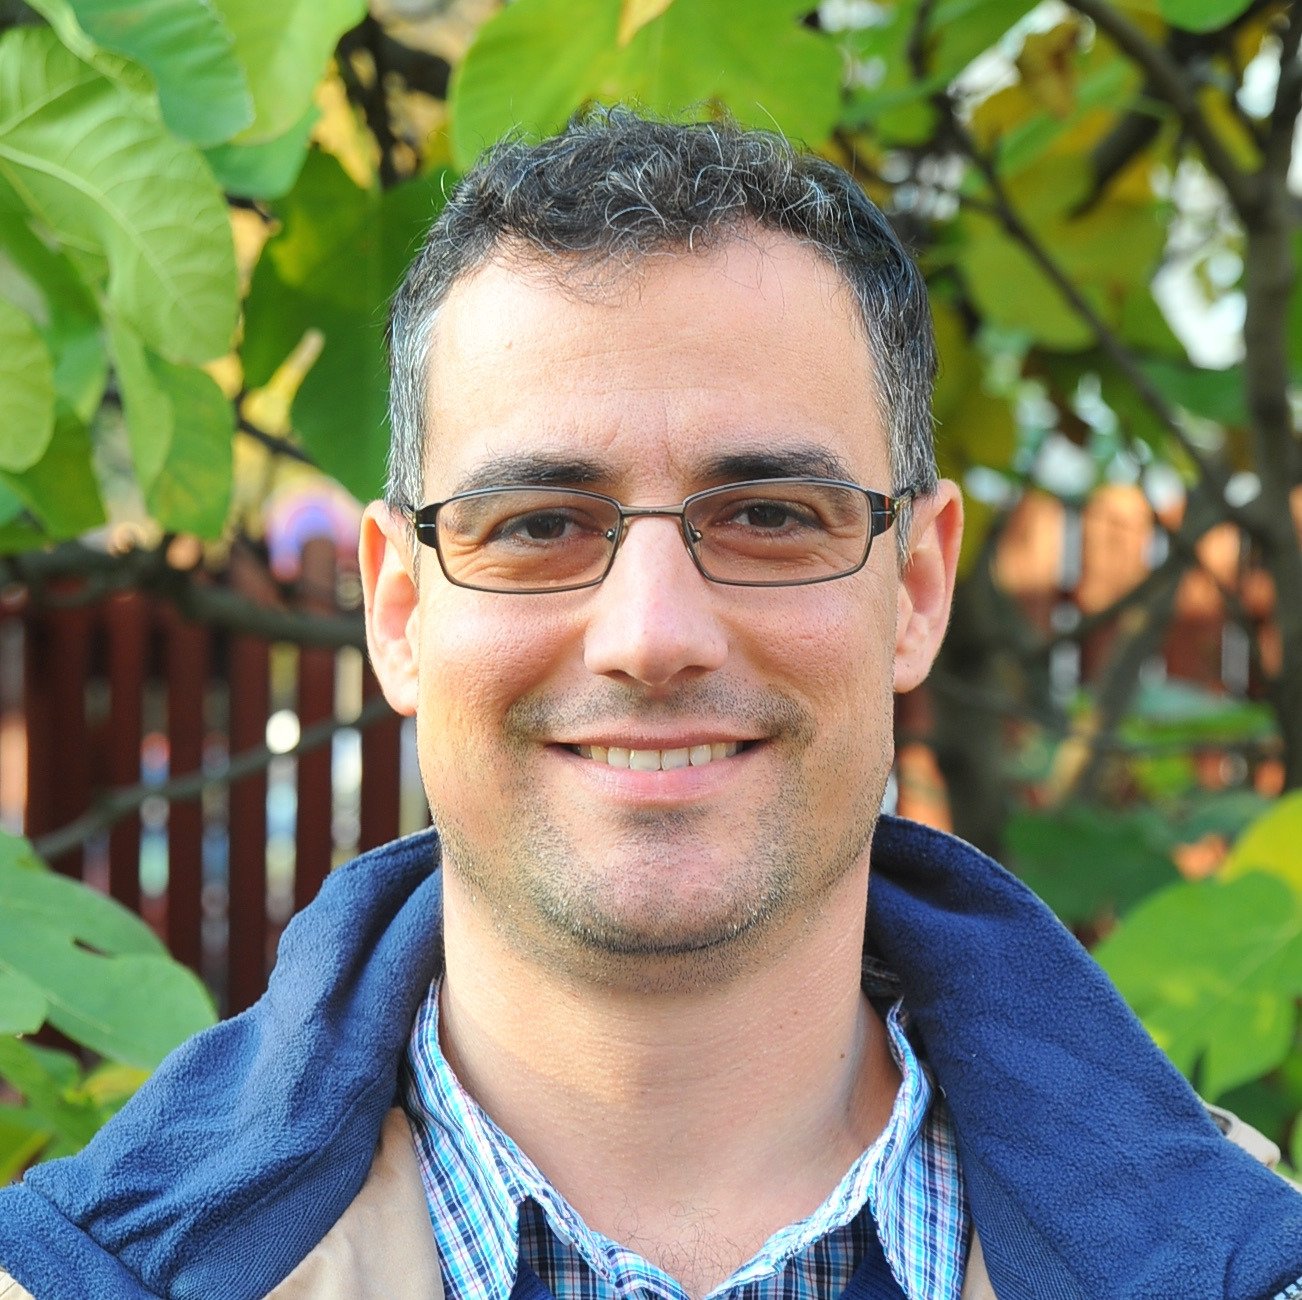
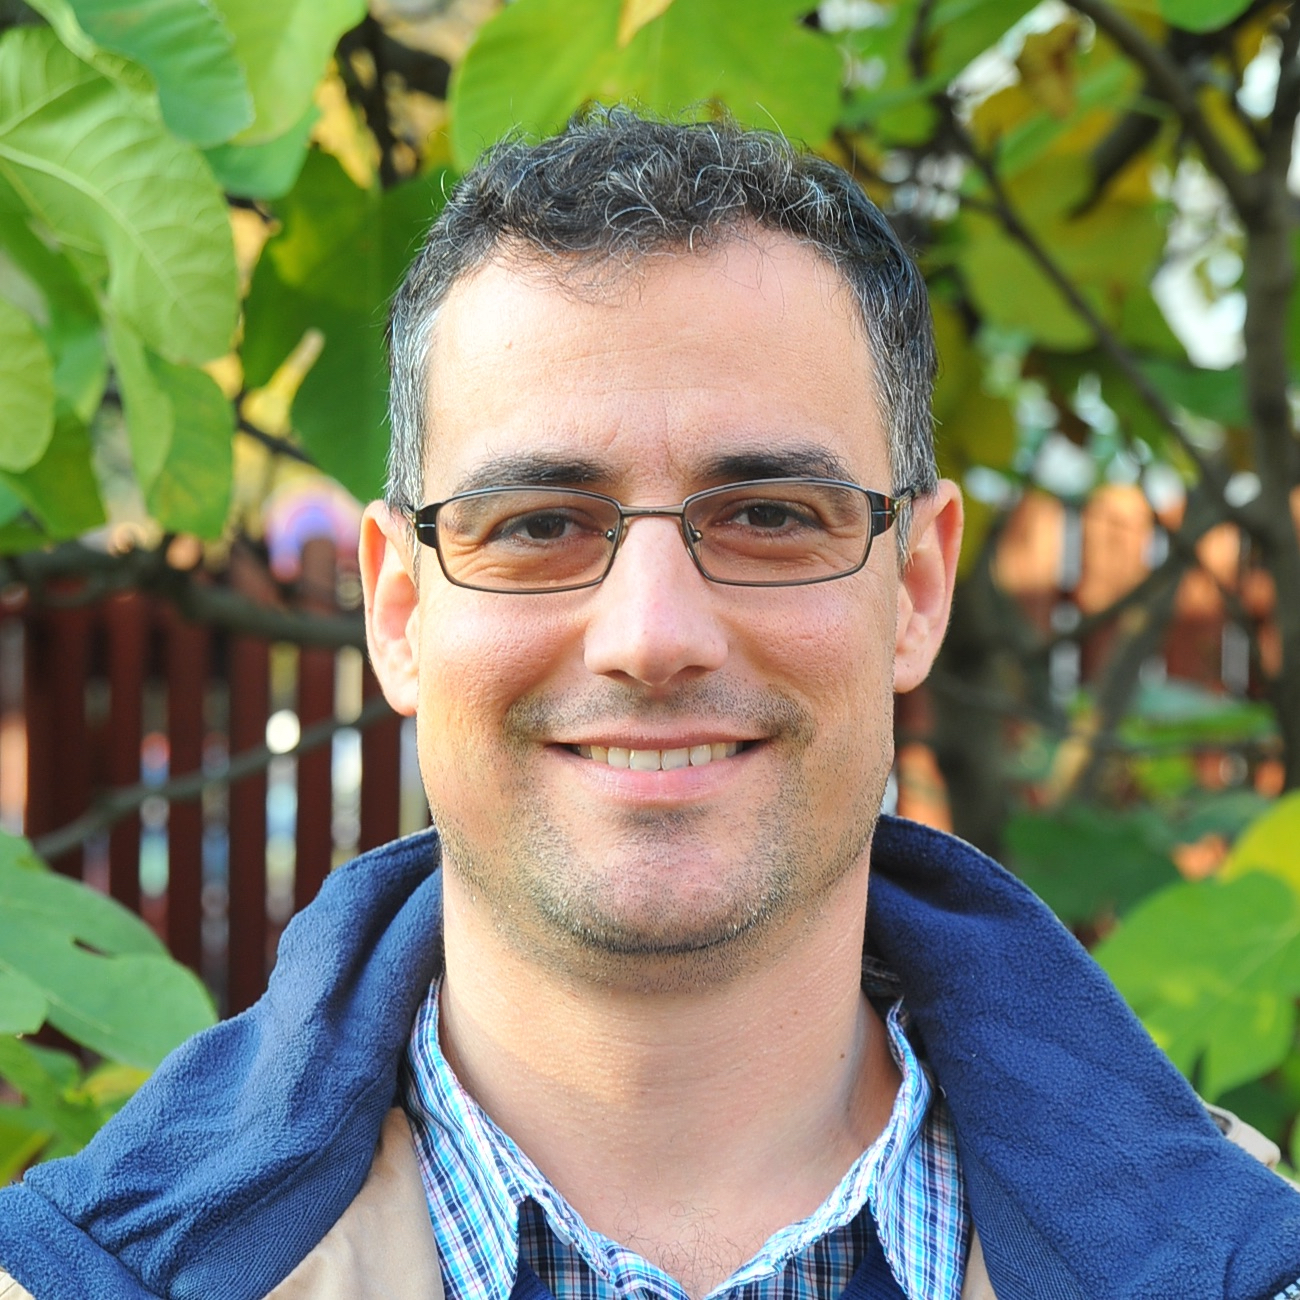
fix(images): make spekar's photos perfect squares

diff --git a/src/data/conferences/2016/hu.js b/src/data/conferences/2016/hu.js
@@ -2,6 +2,7 @@
 
 module.exports = {
   page: {
+    year: 2016,
     home: 'https://fjk.hu',
     title: 'Fiatalok Jézusért Konferencia',
     assetsPath: '../../assets',
@@ -53,7 +54,7 @@ module.exports = {
           bio: 'Jan-Harry Cabungcal végzettsége szerint neurológus-kutató, de a lélekmentés élete igazi szenvedélye. A Europe 4 Jesus alapítójaként és evangelizációs koordinátoraként, valamint a svájci ASI elnökeként Dr. Cabungcal azon munkálkodik, hogy a fiatalokat az elveszettek megkeresésére ösztönözze, képezze és mozgósítsa, új erőt adva a megfáradtaknak, s tekintetüket Urára, Jézus Krisztusra irányítsa.'
         },
         {
-          img: '/img/csizmadia-robert.png',
+          img: '/img/csizmadia-robert.jpg',
           name: 'Csizmadia Róbert',
           description: 'Teológus-lelkész',
           bio: 'Csizmadia Róbert, teológus-lelkész. Egyetemi diplomáját az angliai Newbold College-on szerezte, ahol teológia mellett lelkigondozást és párkapcsolati tanácsadást tanult, illetve a kollégium vezető-helyetteseként dolgozott. A Ketten Együtt Házassági Műhely társalapítója. Óraadóként dolgozott az Adventista Teológiai Főiskolán, a Janus Pannonius Tudományegyetemen és a Károli Gáspár Református Egyetemen. Nős, finn származású feleségével, Helivel, boldog házasságban él, két kislányuk van: Aino és Helmi. A Hetednapi Adventista Egyház lelkészeként dolgozik.'

diff --git a/src/data/conferences/2016/en.js b/src/data/conferences/2016/en.js
@@ -2,6 +2,7 @@
 
 module.exports = {
   page: {
+    year: 2016,
     home: 'https://fjk.hu/en',
     title: 'Fiatalok Jézusért Konferencia',
     assetsPath: '../../../assets',
@@ -53,7 +54,7 @@ module.exports = {
           bio: 'Jan-Harry Cabungcal is a neuroscientist by profession, but soul-winning is his life passion. As the founder and evangelism coordinator of Europe 4 Jesus and president-elect of ASI Switzerland, Dr. Cabungcal works to inspire, equip and mobilize young people in seeking the lost, reviving the weary and pointing them to his Lord - Jesus Christ.'
         },
         {
-          img: '/img/csizmadia-robert.png',
+          img: '/img/csizmadia-robert.jpg',
           name: 'Róbert Csizmadia',
           description: 'Pastor',
           bio: 'Róbert Csizmadia, pastor theologian. He obtained his MA degree in Theological Studies at Newbold College, England; he also studied there pastoral care and relationship counselling. In addition, he was the  Assistant Dean of Newbold College. He is the co-founder of the Ketten Együtt Házassági Műhely (Marital and Premarital Counselling). He worked as a lecturer at the Adventist Theological Seminary, the Janus Pannonius University of Pécs and the Károli Gáspár University of the Reformed Church in Hungary. He is happily married: his wife, Heli is from Finland, they have two daughters: Aino and Helmi. He works as a pastor of the SDA church at the moment.'
